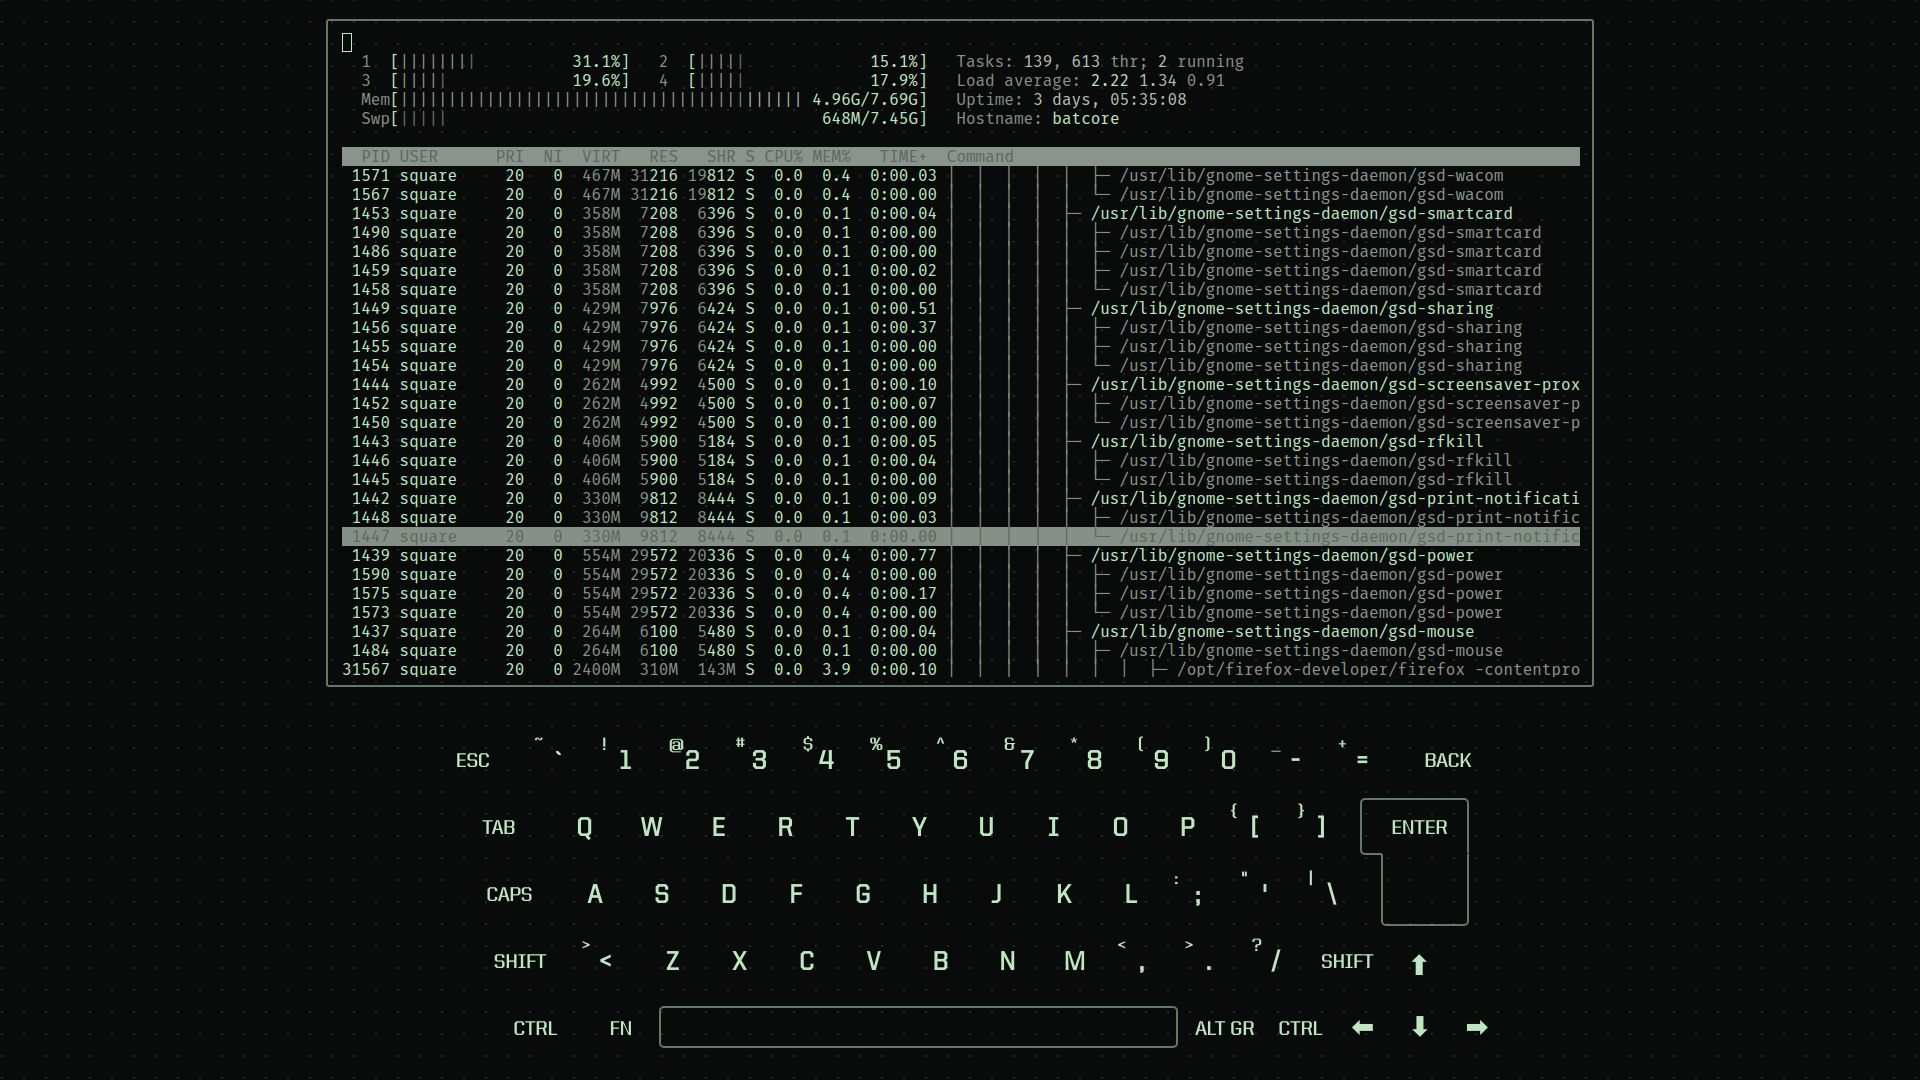
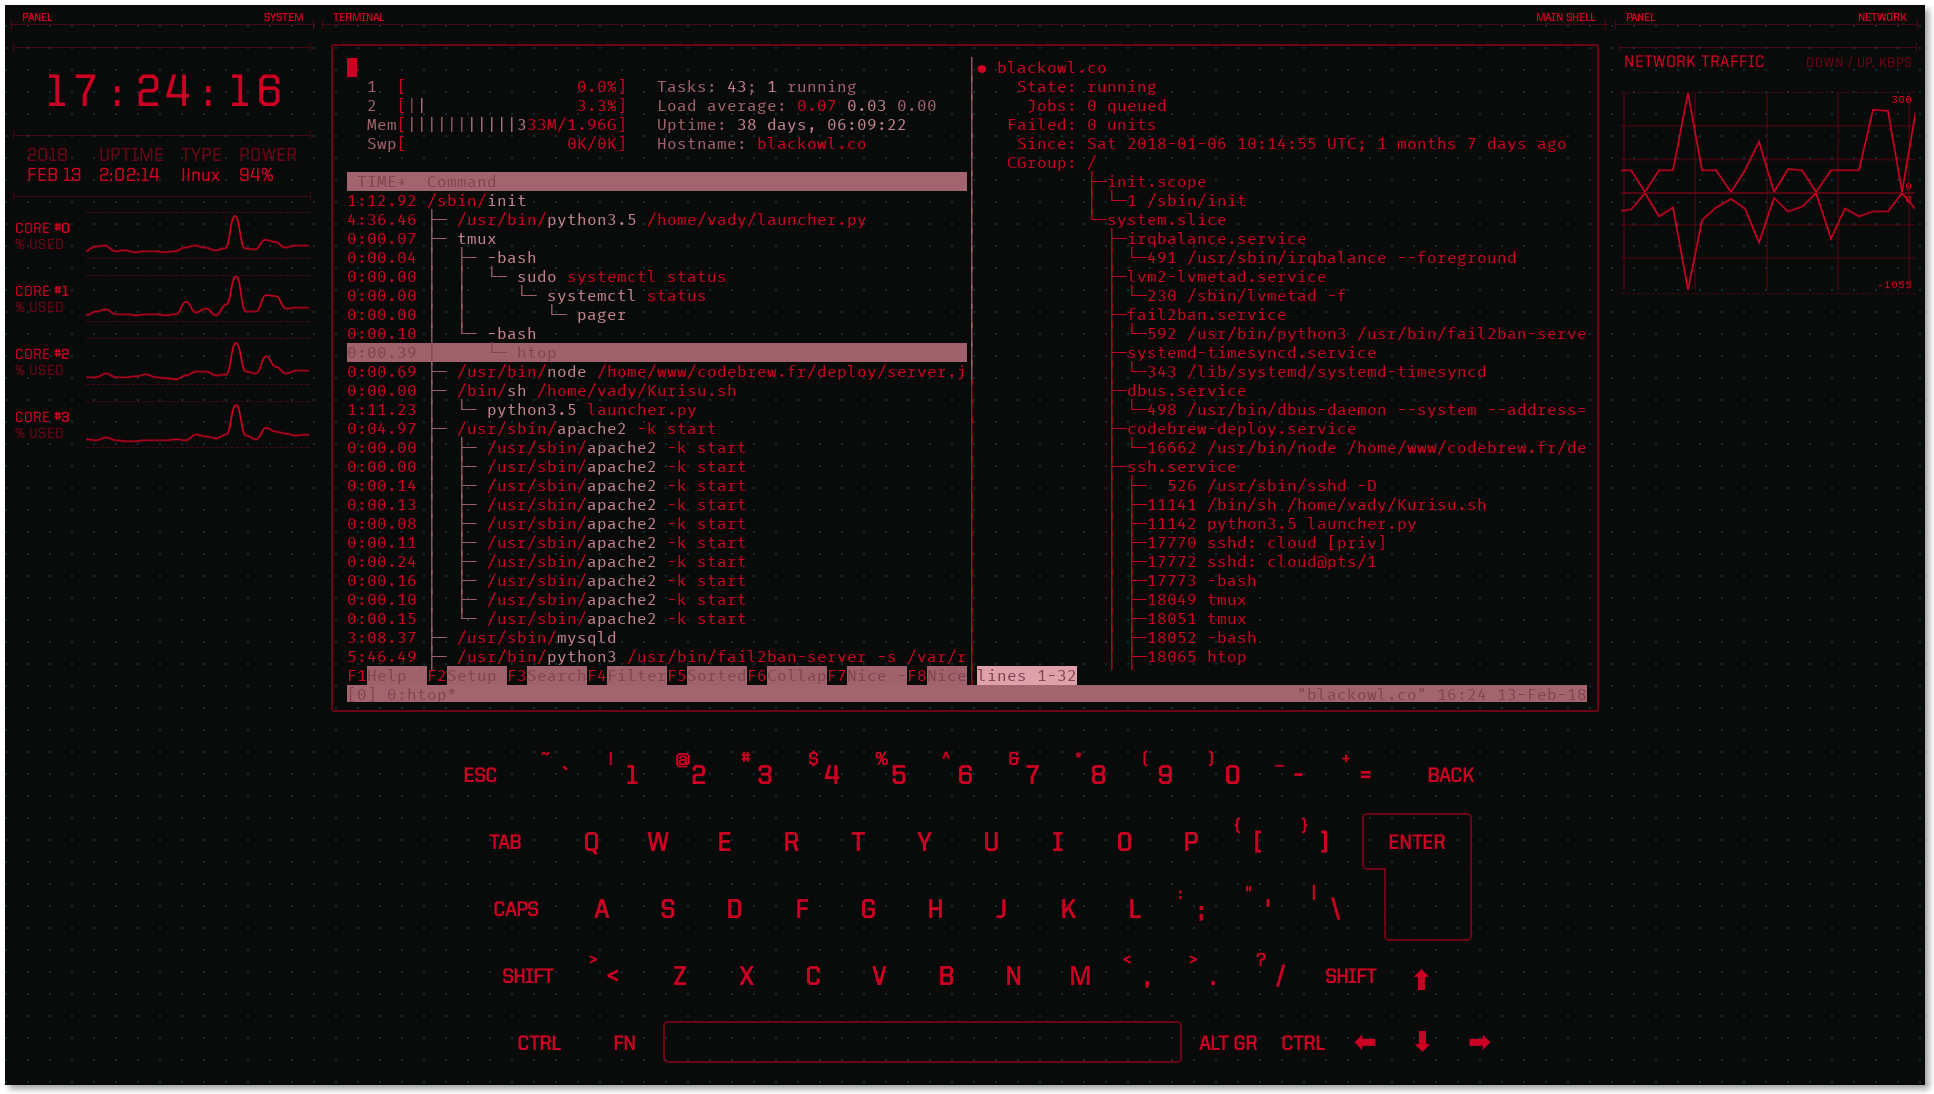
New screenshot

diff --git a/README.md b/README.md
@@ -2,9 +2,9 @@
 
 [![Codacy Badge](https://api.codacy.com/project/badge/Grade/93b816722c4e4af2bdf401b8187b8a2d)](https://www.codacy.com/app/GitSquared/edex-ui?utm_source=github.com&amp;utm_medium=referral&amp;utm_content=GitSquared/edex-ui&amp;utm_campaign=Badge_Grade)  [![Greenkeeper badge](https://badges.greenkeeper.io/GitSquared/edex-ui.svg)](https://greenkeeper.io/)   [![Build Status](https://travis-ci.org/GitSquared/edex-ui.svg?branch=master)](https://travis-ci.org/GitSquared/edex-ui)   [![Build status](https://ci.appveyor.com/api/projects/status/leb069bro8gwocu7/branch/master?svg=true)](https://ci.appveyor.com/project/GitSquared/edex-ui/branch/master)
 
-[![Pre-release demo](https://github.com/GitSquared/edex-ui/raw/master/media/demo-preview.gif)](https://squared.codebrew.fr/edex-demo.mp4)
+![Pre-release screenshot](https://github.com/GitSquared/edex-ui/raw/master/media/screenshot1.png)
 
-_(click to view full-size)_
+_(tmux running htop and systemctl status, on eDEX-UI v0.7.3 with the "red theme")_
 
 
 eDEX-UI is a sci-fi interactive terminal interface heavily inspired from [DEX-UI](https://github.com/seenaburns/dex-ui) and the [TRON Legacy movie effects](https://web.archive.org/web/20170511000410/http://jtnimoy.com/blogs/projects/14881671), made cross-platform and easy to install with [Electron](https://github.com/electron/electron).
